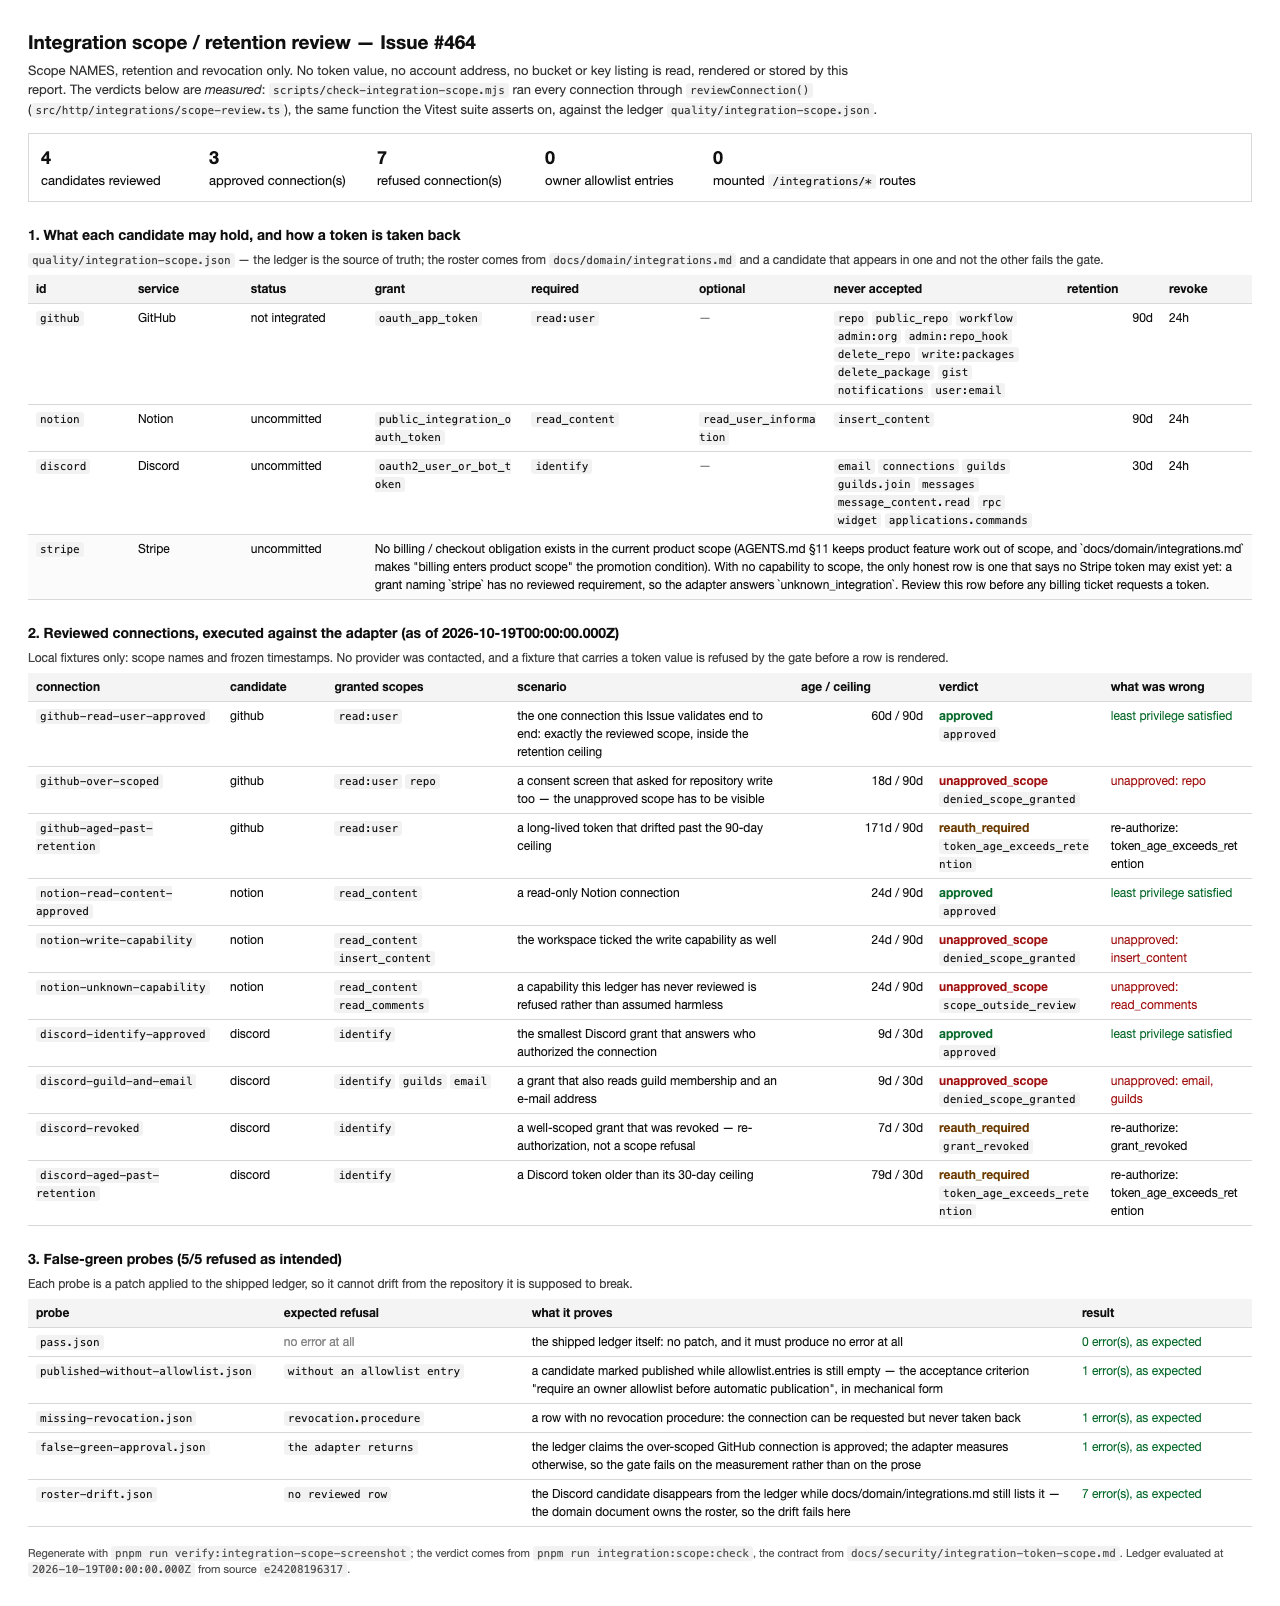
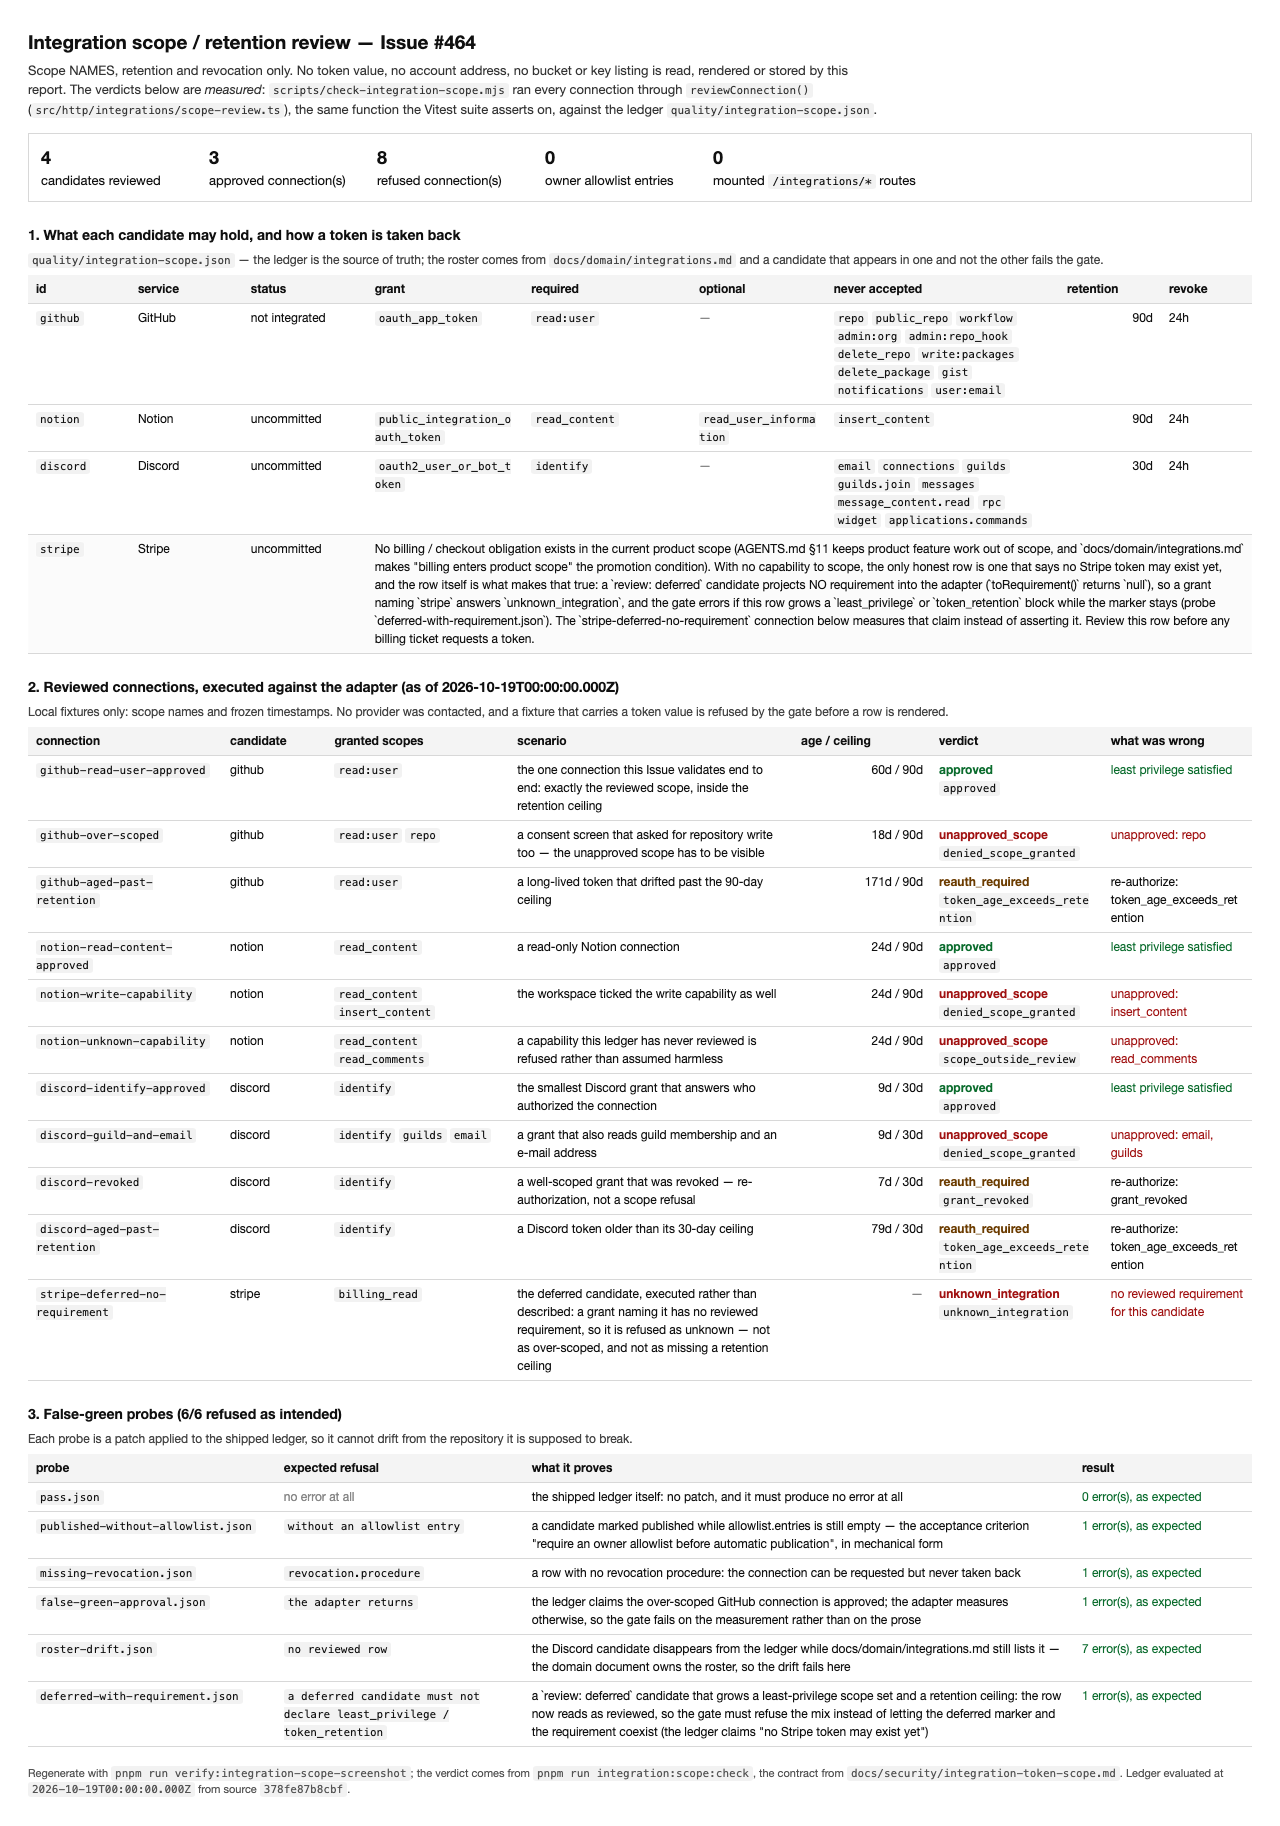
fix(integration): close the two fail-open paths review found in the scope ledger (#464)
Finding 1 - an unreadable revocation or expiry read as an absent one.
parseInstant() returned null for both 'no value' and 'a value that is not
an instant', so a connection row whose revoked_at was truncated reviewed
as approved/approved: the module's own header claims nothing is
fail-open, and this was the one direction it exists to prevent. Every
liveness field is now read through readInstant(), which keeps presence
and parseability apart, so an unreadable revoked_at / expires_at becomes
connection_metadata_unreadable. Reasons are de-duplicated, two fixtures
and three vitest cases pin it, and the ledger measures it by refusing a
reviewed connection whose stored date does not parse.

Finding 2 - the documented unknown_integration for a deferred candidate
was unreachable. toRequirement() projected every row, deferred ones
included, so a Stripe grant answered unapproved_scope /
insufficient_scope while the ledger claimed a grant naming it has no
reviewed requirement. A deferred row now projects no requirement, the
row shape is pinned (a deferred row carrying least_privilege or
token_retention is an error), the claim is measured by a new
stripe-deferred-no-requirement connection, and the false-green probe
deferred-with-requirement.json proves the gate refuses the mix.

Also from the same review, cheap and in scope: the gate header no longer
claims it scans two Wrangler files (it reads REQUIRED_RUNTIME_SECRETS,
and cloudflare:contract:check is what keeps the two identical);
[…]

diff --git a/src/http/integrations/scope-review.ts b/src/http/integrations/scope-review.ts
@@ -54,10 +54,15 @@
  *   - a requirement that declares no retention ceiling cannot be
  *     satisfied by an unbounded token — the review reports the missing
  *     ceiling as `insufficient_scope`;
- *   - a grant with no issue date, or with a date that does not parse, is
- *     `reauth_required` (`issued_at_missing` /
- *     `connection_metadata_unreadable`): the only safe reading of an
- *     unreadable connection record is "reconnect".
+ *   - a grant with no issue date is `reauth_required`
+ *     (`issued_at_missing`);
+ *   - a connection record whose issue, revocation or expiry field is
+ *     **present but unreadable** is `reauth_required`
+ *     (`connection_metadata_unreadable`): an absent field and a
+ *     corrupted field are different answers, and only the safe reading
+ *     of a corrupted record is "reconnect". A `revoked_at` that no
+ *     longer parses is NOT a live grant — it is a grant whose
+ *     revocation evidence this platform can no longer read.
  */
 
 /**
@@ -141,9 +146,17 @@ export interface ConnectionGrant {
 	readonly scopes: readonly string[];
 	/** ISO-8601 issue timestamp. `null`/absent means "not recorded". */
 	readonly issuedAt?: string | null;
-	/** ISO-8601 provider expiry, when the provider has one. */
+	/**
+	 * ISO-8601 provider expiry, when the provider has one. Absent means
+	 * "the provider declares no expiry"; a value that does not parse is a
+	 * refusal, not an absent field.
+	 */
 	readonly expiresAt?: string | null;
-	/** ISO-8601 revocation timestamp, once revoked. */
+	/**
+	 * ISO-8601 revocation timestamp, once revoked. A stored value that
+	 * does not parse is `connection_metadata_unreadable`, never
+	 * "not revoked".
+	 */
 	readonly revokedAt?: string | null;
 	/** Provider told us the grant needs interactive re-authorization. */
 	readonly providerRequiresReauth?: boolean;
@@ -218,11 +231,31 @@ function ageInDays(issuedAtMs: number, nowMs: number): number {
 	return Math.ceil((nowMs - issuedAtMs) / MS_PER_DAY);
 }
 
-/** Parse an ISO-8601 timestamp, or `null` when absent/unreadable. */
-function parseInstant(value: string | null | undefined): number | null {
-	if (typeof value !== 'string' || value.trim().length === 0) return null;
+/**
+ * One timestamp field, read as three-valued evidence.
+ *
+ * `present` is the whole point. `ms: null` alone cannot tell "the
+ * column is empty" from "the column holds something that is not an
+ * instant", and collapsing the two is how a corrupted `revoked_at`
+ * silently re-enables a revoked token: the adapter sees "no
+ * revocation" and answers `approved`. Every liveness field is read
+ * through this type so an unreadable value becomes
+ * `connection_metadata_unreadable` instead of silence.
+ */
+interface InstantEvidence {
+	/** The field carried a non-empty value, whatever that value is. */
+	readonly present: boolean;
+	/** The parsed epoch milliseconds, or `null` when unreadable. */
+	readonly ms: number | null;
+}
+
+/** Read one timestamp field as presence plus a parsed instant. */
+function readInstant(value: string | null | undefined): InstantEvidence {
+	if (typeof value !== 'string' || value.trim().length === 0) {
+		return { present: false, ms: null };
+	}
 	const parsed = Date.parse(value);
-	return Number.isNaN(parsed) ? null : parsed;
+	return { present: true, ms: Number.isNaN(parsed) ? null : parsed };
 }
 
 /**
@@ -299,31 +332,48 @@ export function reviewConnection(
 	const missing = required.filter((scope) => !granted.includes(scope));
 	const usable = granted.filter((scope) => allowed.has(scope) && !denied.has(scope));
 
-	// Retention / liveness evidence.
+	// Retention / liveness evidence. Every field is read through
+	// `readInstant`, so "absent" and "unreadable" never collapse into the
+	// same silent pass (see the Fail-closed section of this header).
 	const reauth: ReauthReason[] = [];
+	const addReauth = (reason: ReauthReason): void => {
+		if (!reauth.includes(reason)) reauth.push(reason);
+	};
 	let ageDays: number | null = null;
-	const issuedRaw = typeof grant.issuedAt === 'string' ? grant.issuedAt.trim() : '';
-	const hasIssuedField = issuedRaw.length > 0;
-	const issuedMs = parseInstant(issuedRaw);
+	const issued = readInstant(grant.issuedAt);
 
-	if (hasIssuedField && issuedMs === null) {
-		reauth.push('connection_metadata_unreadable');
-	} else if (issuedMs !== null) {
-		ageDays = ageInDays(issuedMs, nowMs);
+	if (issued.present && issued.ms === null) {
+		addReauth('connection_metadata_unreadable');
+	} else if (issued.ms !== null) {
+		ageDays = ageInDays(issued.ms, nowMs);
 		// A non-positive ceiling is not a re-authorization reason: the
 		// retention contract was never reviewed at all, which is an
 		// `insufficient_scope` refusal below, not a dead grant.
 		if (Number.isFinite(retentionDays) && retentionDays > 0 && ageDays > retentionDays) {
-			reauth.push('token_age_exceeds_retention');
+			addReauth('token_age_exceeds_retention');
 		}
 	} else {
-		reauth.push('issued_at_missing');
+		addReauth('issued_at_missing');
 	}
 
-	if (parseInstant(grant.revokedAt) !== null) reauth.push('grant_revoked');
-	const expiresMs = parseInstant(grant.expiresAt);
-	if (expiresMs !== null && expiresMs <= nowMs) reauth.push('token_expired');
-	if (grant.providerRequiresReauth === true) reauth.push('provider_requires_reauth');
+	const revoked = readInstant(grant.revokedAt);
+	if (revoked.present) {
+		// An unreadable revocation stamp is not an absent one. Reading it
+		// as "not revoked" would let a truncated or mis-migrated
+		// connection row re-enable exactly the token this module exists to
+		// keep disabled.
+		addReauth(revoked.ms === null ? 'connection_metadata_unreadable' : 'grant_revoked');
+	}
+
+	const expires = readInstant(grant.expiresAt);
+	if (expires.present) {
+		// Same rule for provider expiry: unreadable is `reconnect`, not
+		// "no expiry declared, so the token is fine".
+		if (expires.ms === null) addReauth('connection_metadata_unreadable');
+		else if (expires.ms <= nowMs) addReauth('token_expired');
+	}
+
+	if (grant.providerRequiresReauth === true) addReauth('provider_requires_reauth');
 
 	const retentionUndeclared = !Number.isFinite(retentionDays) || retentionDays <= 0;
 

diff --git a/src/http/integrations/scope-review.test.ts b/src/http/integrations/scope-review.test.ts
@@ -195,6 +195,61 @@ describe('reviewConnection — retention and liveness', () => {
 		expect(unreadable.reauth).toEqual(['connection_metadata_unreadable']);
 	});
 
+	it('fails closed on an unreadable revocation stamp instead of reading it as live', () => {
+		// The direction that matters: a connection row whose `revoked_at`
+		// is corrupted must NOT review as approved. Before this guard, a
+		// truncated row silently re-enabled a revoked token.
+		const corrupted = reviewConnection(
+			READ_ONLY,
+			grant({ revokedAt: 'corrupted-row' }),
+			FIXTURE_NOW_DATE,
+		);
+		expect(corrupted.verdict).toBe('reauth_required');
+		expect(corrupted.code).toBe(SCOPE_REFUSAL_CODE.metadataUnreadable);
+		expect(corrupted.reauth).toContain('connection_metadata_unreadable');
+
+		// The readable form of the same row is still `grant_revoked`, so
+		// the reason an operator sees does not change with the failure.
+		const revoked = reviewConnection(
+			READ_ONLY,
+			grant({ revokedAt: '2026-10-18T00:00:00.000Z' }),
+			FIXTURE_NOW_DATE,
+		);
+		expect(revoked.verdict).toBe('reauth_required');
+		expect(revoked.reauth).toContain('grant_revoked');
+
+		// An absent field is still absent, so the happy path is unaffected.
+		expect(reviewConnection(READ_ONLY, grant(), FIXTURE_NOW_DATE).verdict).toBe('approved');
+	});
+
+	it('fails closed on an unreadable provider expiry instead of reading it as none', () => {
+		const corrupted = reviewConnection(
+			READ_ONLY,
+			grant({ expiresAt: 'not-a-timestamp' }),
+			FIXTURE_NOW_DATE,
+		);
+		expect(corrupted.verdict).toBe('reauth_required');
+		expect(corrupted.code).toBe(SCOPE_REFUSAL_CODE.metadataUnreadable);
+
+		const future = reviewConnection(
+			READ_ONLY,
+			grant({ expiresAt: '2026-11-18T00:00:00.000Z' }),
+			FIXTURE_NOW_DATE,
+		);
+		expect(future.verdict).toBe('approved');
+	});
+
+	it('reports one reason per failure, never a duplicate row', () => {
+		const review = reviewConnection(
+			READ_ONLY,
+			grant({ revokedAt: 'corrupted-row', expiresAt: 'also-corrupted' }),
+			FIXTURE_NOW_DATE,
+		);
+		expect(review.verdict).toBe('reauth_required');
+		expect(review.reauth).toEqual(['connection_metadata_unreadable']);
+		expect(new Set(review.reauth).size).toBe(review.reauth.length);
+	});
+
 	it('cannot approve a requirement that declares no retention ceiling', () => {
 		for (const maxAgeDays of [0, -1, Number.NaN]) {
 			const review = reviewConnection({ ...READ_ONLY, maxAgeDays }, grant(), FIXTURE_NOW_DATE);

diff --git a/src/http/integrations/fixtures.ts b/src/http/integrations/fixtures.ts
@@ -233,6 +233,33 @@ export const SCOPE_FIXTURES: readonly ScopeFixture[] = [
 		expected: { verdict: 'reauth_required', code: SCOPE_REFUSAL_CODE.metadataUnreadable },
 	},
 	{
+		id: 'revoked-at-unreadable',
+		title: 'a revocation stamp this platform can no longer read is not "not revoked"',
+		requirement: readOnlyRequirement('local/read-only'),
+		grant: {
+			integration: 'local/read-only',
+			scopes: ['read:user'],
+			issuedAt: daysBefore(5),
+			// A truncated or mis-migrated connection row. Reading this as
+			// an absent revocation would re-enable the token the row says
+			// was revoked, so the only safe reading is `reconnect`.
+			revokedAt: 'corrupted-row',
+		},
+		expected: { verdict: 'reauth_required', code: SCOPE_REFUSAL_CODE.metadataUnreadable },
+	},
+	{
+		id: 'expires-at-unreadable',
+		title: 'an unparseable provider expiry is not "no expiry declared"',
+		requirement: readOnlyRequirement('local/read-only'),
+		grant: {
+			integration: 'local/read-only',
+			scopes: ['read:user'],
+			issuedAt: daysBefore(5),
+			expiresAt: 'not-a-timestamp',
+		},
+		expected: { verdict: 'reauth_required', code: SCOPE_REFUSAL_CODE.metadataUnreadable },
+	},
+	{
 		id: 'over-scoped-and-revoked',
 		title:
 			'least privilege outranks liveness: the scope refusal is reported, the revoke reason is kept',

diff --git a/src/http/integrations/README.md b/src/http/integrations/README.md
@@ -35,8 +35,14 @@ somebody reviewed. The verdict is one of `approved`,
 privilege outranks liveness: an over-scoped *and* revoked grant reports
 the scope refusal while keeping the revoke reason in `review.reauth`.
 Nothing is fail-open — an unreadable issue date, a missing retention
-ceiling, or an unreviewed service are all refusals, not warnings. The
-reviewed requirements, their sources and the revocation procedure live in
+ceiling, or an unreviewed service are all refusals, not warnings. An
+**absent** liveness field and an **unreadable** one are different
+answers: a `revoked_at` that does not parse is
+`connection_metadata_unreadable` (re-authorize), never "not revoked", so
+a truncated or mis-migrated connection row cannot re-enable a token.
+
+The reviewed requirements, their sources and the revocation procedure
+live in
 [`quality/integration-scope.json`](../../../quality/integration-scope.json)
 and are checked by `pnpm run integration:scope:check`; the operator
 contract is [`docs/security/integration-token-scope.md`](../../../docs/security/integration-token-scope.md).
@@ -47,7 +53,9 @@ contract is [`docs/security/integration-token-scope.md`](../../../docs/security/
   grant whose verdict is not `approved`. A stored over-scoped token is a
   token you cannot un-hold.
 - Persist `issuedAt`. Without it the retention ceiling is unverifiable
-  and the review refuses the connection forever.
+  and the review refuses the connection forever. Persist `revokedAt`
+  and `expiresAt` as real instants too: a value that does not parse is
+  refused, never skipped.
 - Do not mount this before the owner allowlist in
   `quality/integration-scope.json` has an entry for the candidate, and
   do not change the absence tests to get a green build.
